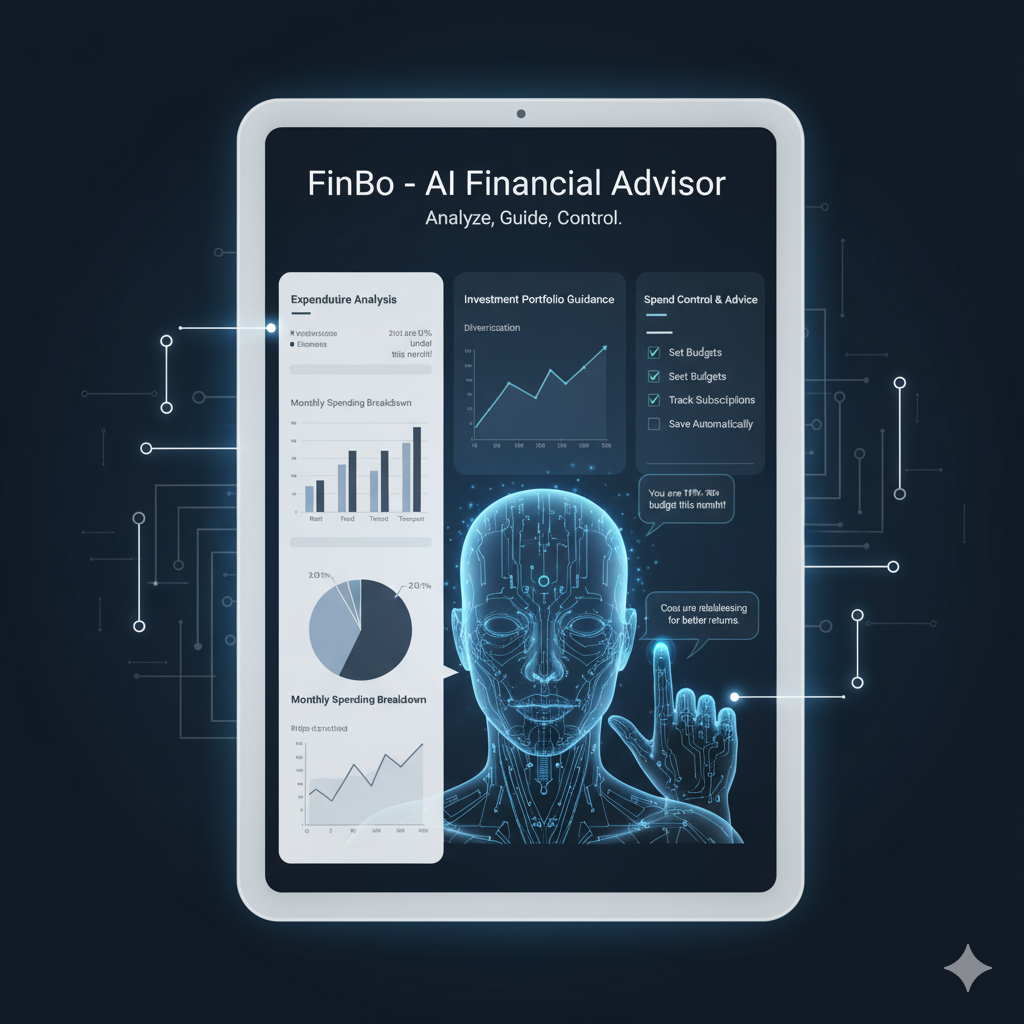
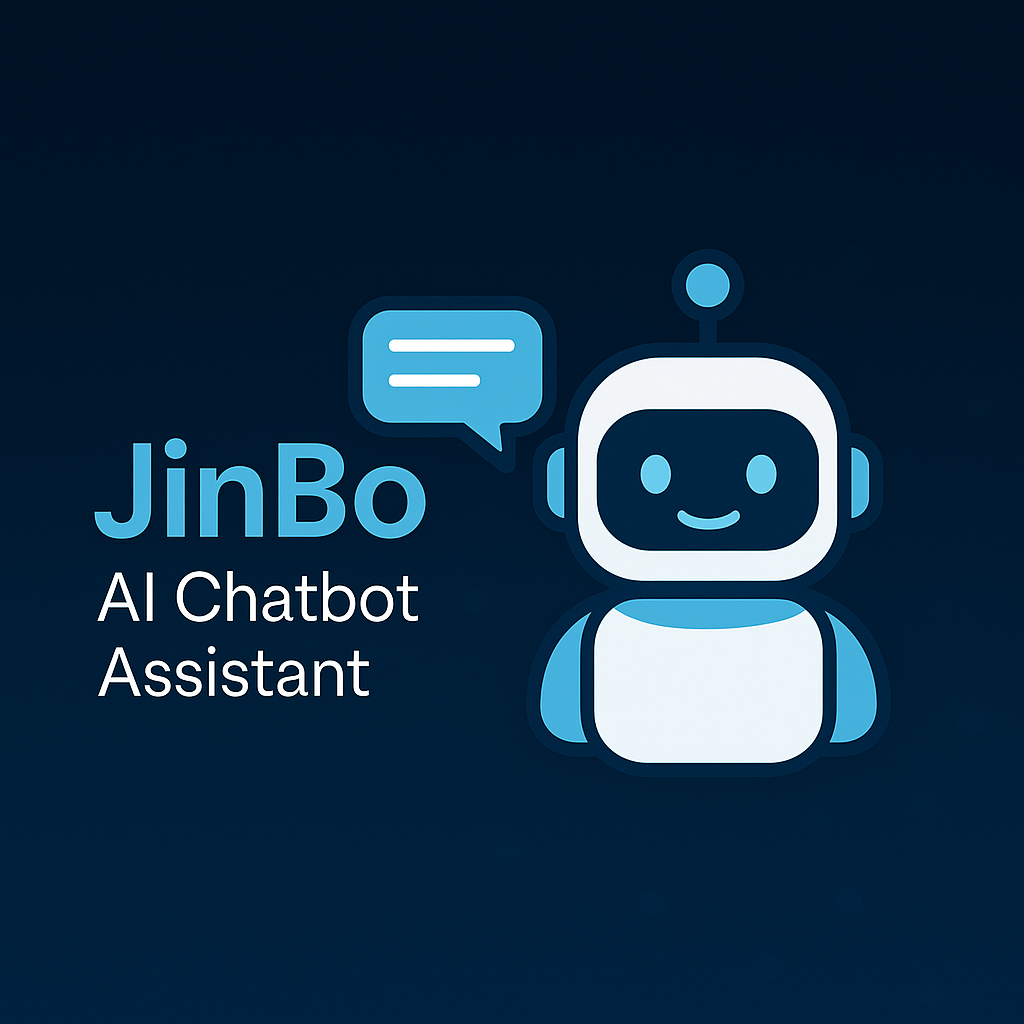
Merge pull request #18 from Prateesh-Sulikeri/feature_branch
Prod ready v1

Pull request: Prod ready v1

diff --git a/src/app/pages/about/about.css b/src/app/pages/about/about.css
@@ -16,13 +16,19 @@
   display: flex;
   align-items: center;
   gap: 0.4rem;
-  flex-wrap: wrap;              /* ✅ allow wrapping gracefully */
+  flex-wrap: wrap; /* ✅ allow wrapping gracefully */
   word-break: break-word;
   font-size: 0.9rem;
   color: var(--accent-blue);
   margin-bottom: 1.8rem;
   font-family: "Fira Code", monospace;
   position: relative;
+  line-height: 1.4;
+
+  /* === Animation initial state === */
+  opacity: 0;
+  transform: translateY(10px);
+  transition: all 0.8s ease-out;
 }
 
 .about-prompt .user { color: #00ff7f; }
@@ -36,16 +42,7 @@
   animation: blink-cursor 1s steps(1) infinite;
 }
 
-.about-prompt::before {
-  position: absolute;
-  bottom: -1.2rem;
-  left: 1.6rem;
-  font-size: 0.8rem;
-  font-style: italic;
-  color: #00ff7f;
-  opacity: 0.85;
-  animation: fade-in 1s ease forwards;
-}
+@keyframes blink-cursor { 50% { opacity: 0; } }
 
 /* ===== Header ===== */
 .about-header {
@@ -55,6 +52,11 @@
   margin-bottom: 2.5rem;
   width: 100%;
   box-sizing: border-box;
+
+  /* === Animation initial state === */
+  opacity: 0;
+  transform: translateY(10px);
+  transition: all 0.8s ease-out;
 }
 
 .section-title {
@@ -94,6 +96,7 @@
   border-radius: 0;
   letter-spacing: 0.5px;
 }
+
 .about-btn-header:hover {
   color: var(--accent-blue);
   box-shadow: 0 0 6px var(--accent-blue);
@@ -101,13 +104,40 @@
 }
 
 /* ===== Content ===== */
+.about-content {
+  opacity: 0;
+  transform: translateY(10px);
+  transition: all 0.8s ease-out;
+}
+
 .about-content p {
   margin-bottom: 1.2rem;
   line-height: 1.7;
   font-size: 1rem;
 }
 
-/* Sequential reveal */
+.about-list {
+  list-style: none;
+  padding: 0;
+  margin: 0;
+  display: flex;
+  flex-direction: column;
+  gap: 0.75rem;
+}
+
+.about-list li {
+  font-size: 1rem;
+  line-height: 1.6;
+  color: var(--text-light);
+  word-break: break-word;
+}
+
+.about-list .label {
+  color: var(--accent-blue);
+  font-weight: 600;
+}
+
+/* ===== Reveal on scroll ===== */
 .about-section.active .about-prompt,
 .about-section.active .about-header,
 .about-section.active .about-content {
@@ -115,12 +145,20 @@
   transform: translateY(0);
 }
 
+.about-section.active .about-header {
+  transition-delay: 0.1s;
+}
+
+.about-section.active .about-content {
+  transition-delay: 0.2s;
+}
+
 /* ======== RESPONSIVE ======== */
 
 /* --- Tablets & below (<=768px) --- */
 @media (max-width: 768px) {
   .about-section {
-    padding: 6rem 1.5rem 3rem;   /* tighter vertical spacing */
+    padding: 6rem 1.5rem 3rem;
   }
 
   .about-header {
@@ -132,9 +170,7 @@
 
   .about-line { display: none; }
 
-  .section-title {
-    font-size: 1.6rem;
-  }
+  .section-title { font-size: 1.6rem; }
 
   .about-btn-header {
     align-self: flex-start;
@@ -144,14 +180,14 @@
   }
 
   .about-prompt {
-    font-size: 0.8rem;           /* smaller prompt font */
-    flex-wrap: wrap;             /* allow multi-line */
+    font-size: 0.8rem;
+    flex-wrap: wrap;
     line-height: 1.3;
   }
 
-  .about-content p {
+  .about-list li {
     font-size: 0.9rem;
-    line-height: 1.6;
+    line-height: 1.5;
   }
 }
 
@@ -175,9 +211,13 @@
     padding: 0.35rem 0.8rem;
   }
 
-  .about-content p {
+  .about-list {
+    gap: 0.6rem;
+  }
+
+  .about-list li {
     font-size: 0.85rem;
-    line-height: 1.55;
+    line-height: 1.45;
   }
 }
 
@@ -201,45 +241,7 @@
     padding: 0.3rem 0.7rem;
   }
 
-  .about-content p {
+  .about-list li {
     font-size: 0.8rem;
-  }
-}
-.about-list {
-  list-style: none;
-  padding: 0;
-  margin: 0;
-  display: flex;
-  flex-direction: column;
-  gap: 0.75rem;
-}
-
-.about-list li {
-  font-size: 1rem;
-  line-height: 1.6;
-  color: var(--text-light);
-  word-break: break-word;
-}
-
-.about-list .label {
-  color: var(--accent-blue);
-  font-weight: 600;
-}
-
-/* --- Mobile adjustments --- */
-@media (max-width: 768px) {
-  .about-list li {
-    font-size: 0.9rem;
-    line-height: 1.5;
-  }
-}
-
-@media (max-width: 480px) {
-  .about-list {
-    gap: 0.6rem;
-  }
-  .about-list li {
-    font-size: 0.85rem;
-    line-height: 1.45;
   }
 }

diff --git a/src/app/header/header.css b/src/app/header/header.css
@@ -154,3 +154,36 @@
   color: var(--accent-blue);
   margin-right: 2px;
 }
+
+.logo {
+  display: flex;
+  align-items: center;
+  cursor: pointer;
+  gap: 0.6rem;
+  text-decoration: none;
+  transition: transform 0.25s ease;
+}
+
+.logo:hover {
+  transform: scale(1.05);
+}
+
+.logo-img {
+  width: 28px;
+  height: 28px;
+  object-fit: contain;
+  filter: drop-shadow(0 0 4px var(--accent-blue));
+  transition: filter 0.3s ease;
+}
+
+.logo:hover .logo-img {
+  filter: drop-shadow(0 0 8px var(--accent-blue));
+}
+
+.brand-text {
+  font-size: 1.4rem;
+  font-weight: 600;
+  letter-spacing: 0.5px;
+  color: var(--text-light);
+  animation: pulseGlow 2s infinite ease-in-out;
+}

diff --git a/src/app/header/header.html b/src/app/header/header.html
@@ -1,10 +1,10 @@
 <header class="app-header">
   <div class="header-container">
-    <div class="logo">
-      <span class="brand">
-        <span class="hash">/</span><span class="slash">Prateesh</span>
-      </span>
+    <div class="logo" (click)="scrollTo('home')">
+      <img src="favicon.png" alt="Logo" class="logo-img" />
+      <span class="brand-text">Prateesh</span>
     </div>
+
 
     <button class="menu-toggle" (click)="toggleMenu()">☰</button>
 

diff --git a/src/index.html b/src/index.html
@@ -1,11 +1,15 @@
 <!doctype html>
 <html lang="en">
+
 <head>
   <meta charset="utf-8">
   <title>Prateesh Sulikeri</title>
   <base href="/">
   <meta name="viewport" content="width=device-width, initial-scale=1">
-  <link rel="icon" type="image/x-icon" href="favicon.ico">
+  <!-- Standard favicon -->
+  <link rel="icon" type="image/x-icon" href="favicon.png">
+  <!-- Theme color (optional, looks nice on mobile browsers) -->
+  <meta name="theme-color" content="#000000">
   <link rel="preconnect" href="https://fonts.googleapis.com">
   <link rel="preconnect" href="https://fonts.gstatic.com" crossorigin>
   <link href="https://fonts.googleapis.com/css2?family=Fira+Code:wght@400;500;600&display=swap" rel="stylesheet">
@@ -13,7 +17,9 @@
 
 
 </head>
+
 <body>
   <app-root></app-root>
 </body>
+
 </html>